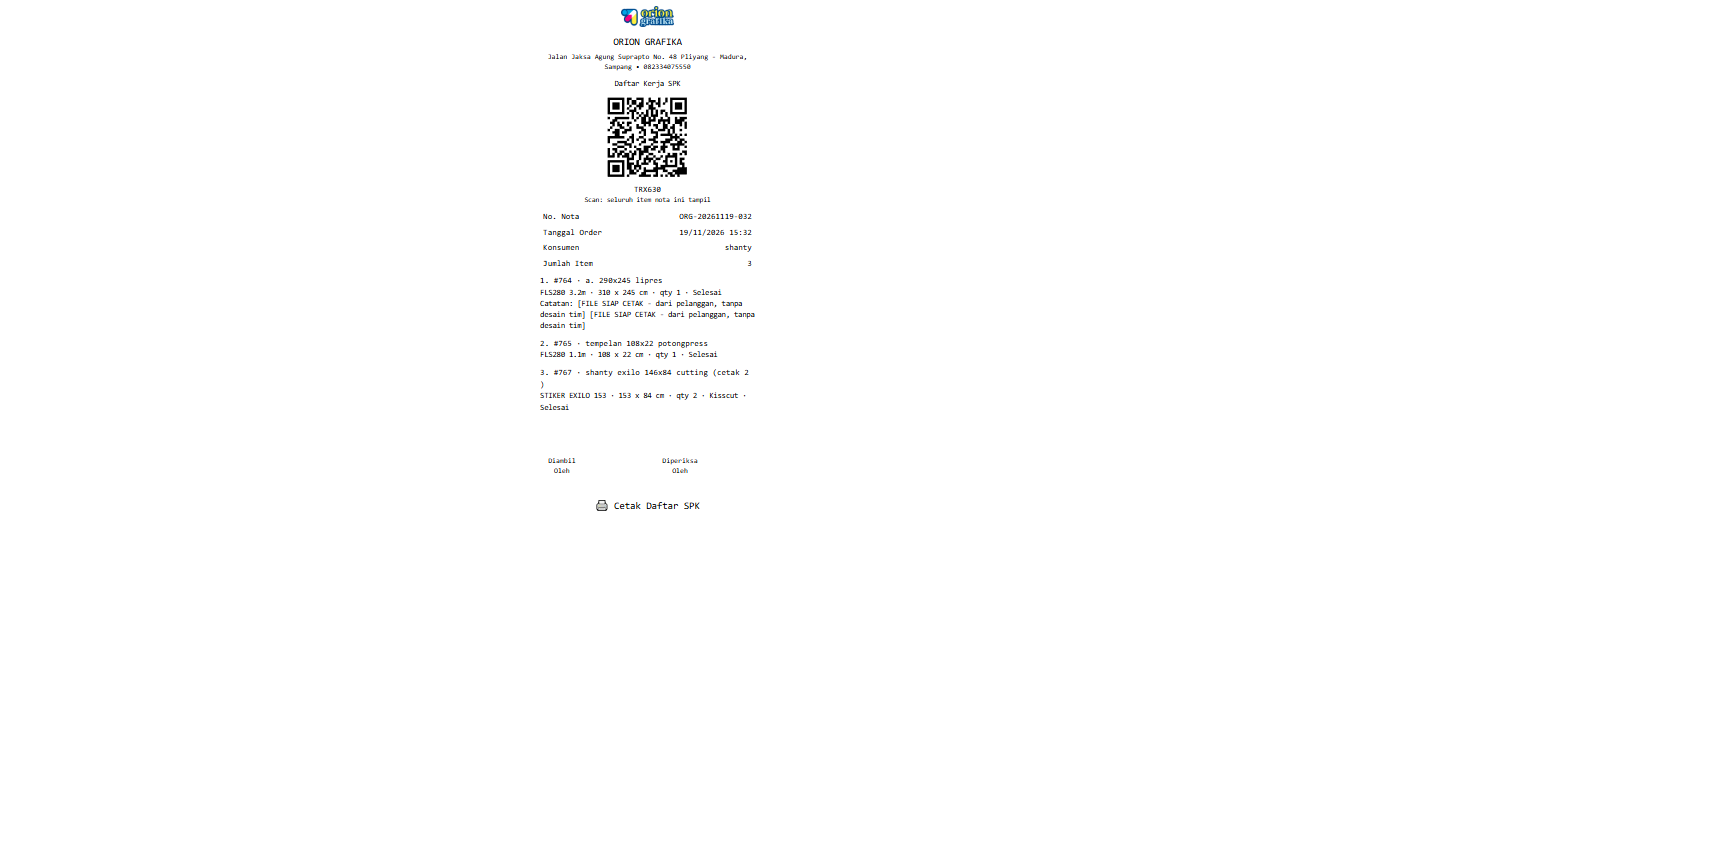
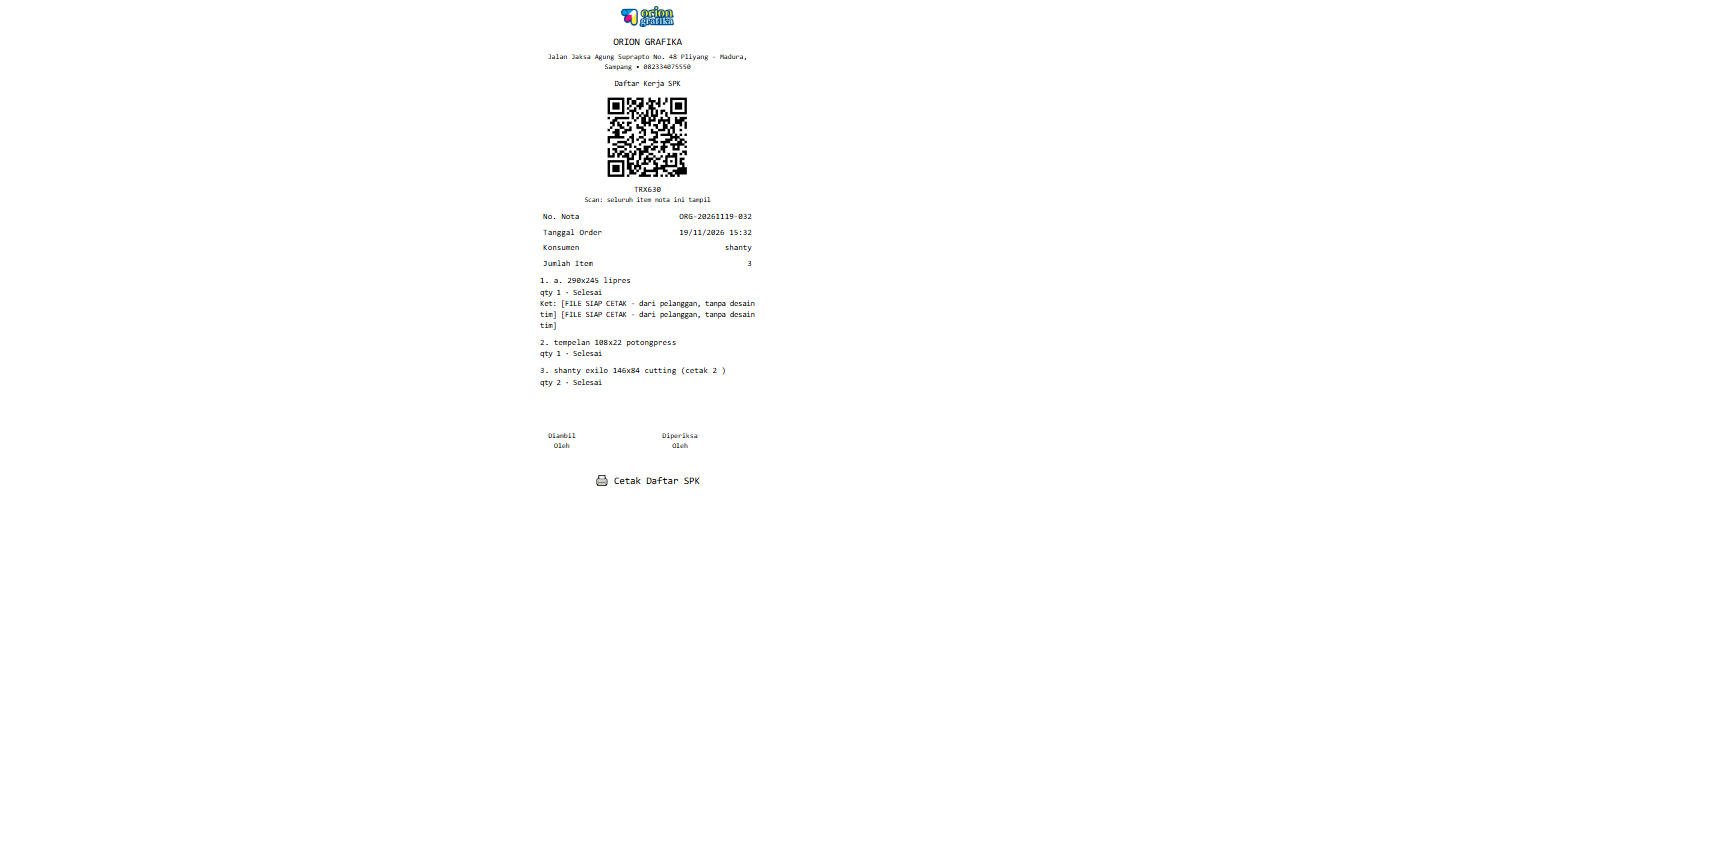
fix(spk): daftar kerja hanya memuat nama file/deskripsi, qty, status, dan keterangan desain (file siap cetak) - produk/ukuran/finishing tidak dicetak

diff --git a/resources/views/spk/print-semua.blade.php b/resources/views/spk/print-semua.blade.php
@@ -6,12 +6,9 @@
     @include('partials.print-style')
     @if($format !== 'thermal')
     <style>
-        /* Daftar kerja A4 harus memakai lebar kertas penuh - style nota
-           membatasi .sheet ke 480px (pas untuk struk), terlalu sempit
-           untuk tabel banyak kolom. */
+        /* Daftar kerja A4 memakai lebar kertas penuh - style nota
+           membatasi .sheet ke 480px (pas untuk struk). */
         .sheet { max-width: 100%; }
-        /* Blok identitas nota tidak perlu melebar sepanjang kertas -
-           nilai yang rata kanan jadi jauh dari labelnya. */
         table.info-nota { max-width: 380px; margin: 0 auto; }
     </style>
     @endif
@@ -19,26 +16,6 @@
 <body>
     @php
         $nota = $details->first();
-        // Data baris disiapkan sekali supaya cabang thermal (daftar linear,
-        // 80mm) dan cabang A4 (tabel) membaca isi yang sama persis.
-        $barisItem = $details->values()->map(function ($detail, $i) use ($finishingItems) {
-            $fin = $finishingItems[$detail->id_detail] ?? collect();
-            // Hanya NAMA finishing - status/catatan finishing milik tim
-            // finishing dan membuat baris melebar tanpa guna.
-            $finText = $fin->pluck('nama_finishing')->implode(', ');
-            if ($finText === '' && ($detail->nama_finishing ?? null)) {
-                $finText = $detail->nama_finishing;
-            }
-            $ukuran = ($detail->metode_hitung ?? null) === 'ukuran'
-                ? angka($detail->p_ukuran, 2) . ' x ' . angka($detail->l_ukuran, 2)
-                : '-';
-            return [
-                'detail' => $detail,
-                'no' => $i + 1,
-                'fin' => $finText,
-                'ukuran' => $ukuran,
-            ];
-        });
     @endphp
     <div class="sheet">
         @include('partials.print-header', ['docTitle' => 'Daftar Kerja SPK'])
@@ -62,26 +39,19 @@
 
         <div class="divider"></div>
 
+        {{-- Isi daftar sengaja hanya: nama file/deskripsi, qty, status, dan
+             keterangan desain (mis. "FILE SIAP CETAK - dari pelanggan").
+             Produk, ukuran, dan finishing bisa dilihat setelah barcode
+             discan/dibuka, jadi tidak dicetak di kertas. --}}
         @if($format === 'thermal')
-            {{-- THERMAL 80mm: daftar linear, bukan tabel banyak kolom.
-                 Empat kolom pada kertas 80mm memaksa "Catatan" jadi kolom
-                 satu kata per baris sehingga daftar lebih panjang daripada
-                 struk per item - justru menghemat kertasnya hilang. --}}
-            @foreach($barisItem as $b)
-            @php $detail = $b['detail']; @endphp
-            <div style="margin-bottom: 7px;">
-                <div style="font-weight:500;">
-                    {{ $b['no'] }}. #{{ $detail->id_detail }} &middot; {{ $detail->nama_file }}
-                    @if($detail->status_urgent)<span style="color:var(--color-amber-700);"> (URGENT)</span>@endif
-                </div>
+            @foreach($details->values() as $i => $detail)
+            <div style="margin-bottom: 6px;">
+                <div>{{ $i + 1 }}. {{ $detail->nama_file }}</div>
                 <div style="font-size:10px; color:var(--ink-600);">
-                    {{ $detail->nama_produk }}@if(($detail->metode_hitung ?? null) === 'ukuran') &middot; {{ $b['ukuran'] }} cm @endif
-                    &middot; qty {{ angka($detail->qty, 4) }}
-                    @if($b['fin'] !== '') &middot; {{ $b['fin'] }} @endif
-                    &middot; {{ $detail->status_spk }}
+                    qty {{ angka($detail->qty, 4) }} &middot; {{ $detail->status_spk }}@if($detail->status_urgent) (URGENT)@endif
                 </div>
                 @if($detail->catatan_produksi)
-                <div style="font-size:10px; color:var(--ink-600);">Catatan: {{ $detail->catatan_produksi }}</div>
+                <div style="font-size:10px; color:var(--ink-600);">Ket: {{ $detail->catatan_produksi }}</div>
                 @endif
             </div>
             @endforeach
@@ -90,32 +60,20 @@
                 <thead>
                     <tr>
                         <th style="width:26px;">No</th>
-                        <th style="width:56px;">No. SPK</th>
-                        <th style="width:24%;">Nama File / Item</th>
-                        <th style="width:13%;">Produk</th>
-                        <th style="width:78px;">Ukuran</th>
-                        <th class="right" style="width:34px;">Qty</th>
-                        <th style="width:13%;">Finishing</th>
-                        <th style="width:24%;">Catatan</th>
-                        <th style="width:58px;">Status</th>
+                        <th>Nama File / Deskripsi</th>
+                        <th class="right" style="width:44px;">Qty</th>
+                        <th style="width:90px;">Status</th>
+                        <th>Keterangan Desain</th>
                     </tr>
                 </thead>
                 <tbody>
-                    @foreach($barisItem as $b)
-                    @php $detail = $b['detail']; @endphp
+                    @foreach($details->values() as $i => $detail)
                     <tr>
-                        <td>{{ $b['no'] }}</td>
-                        <td>#{{ $detail->id_detail }}</td>
-                        <td>
-                            {{ $detail->nama_file }}
-                            @if($detail->status_urgent)<span style="color:var(--color-amber-700);font-weight:500;"> (URGENT)</span>@endif
-                        </td>
-                        <td>{{ $detail->nama_produk }}</td>
-                        <td>{{ $b['ukuran'] }}</td>
+                        <td>{{ $i + 1 }}</td>
+                        <td>{{ $detail->nama_file }}</td>
                         <td class="right">{{ angka($detail->qty, 4) }}</td>
-                        <td>{{ $b['fin'] !== '' ? $b['fin'] : '-' }}</td>
+                        <td>{{ $detail->status_spk }}@if($detail->status_urgent) (URGENT)@endif</td>
                         <td>{{ $detail->catatan_produksi ?: '-' }}</td>
-                        <td>{{ $detail->status_spk }}</td>
                     </tr>
                     @endforeach
                 </tbody>

diff --git a/docs/reviews/SPK_GABUNGAN_SEMUA_ITEM.md b/docs/reviews/SPK_GABUNGAN_SEMUA_ITEM.md
@@ -16,10 +16,14 @@ Tombol/tautan **Daftar SPK (n)** membuka **satu lembar daftar kerja**:
 
 - 1 barcode nota (sekali scan → semua item nota tampil)
 - identitas nota/order (nomor, tanggal, konsumen, jumlah item)
-- tabel semua item: No. SPK, nama file/barang, produk, ukuran, qty,
-  finishing, catatan, status
+- tabel semua item: **nama file/deskripsi, qty, status**, dan **keterangan
+  desain** (mis. "FILE SIAP CETAK - dari pelanggan, tanpa desain tim")
 - daftar nama & nomor punggung (khusus Jersey) tetap dicetak di bawahnya
   karena informasi itu tidak terbaca dengan scan
+
+Produk, ukuran, dan finishing sengaja tidak dicetak — semuanya muncul
+setelah barcode discan, sehingga kertas hanya memuat yang dibutuhkan untuk
+pembagian kerja.
 
 SPK per item **tidak diubah**: tombol `SPK` di tiap kartu barang / baris
 antrean tetap mencetak halaman lengkap (gambar desain, estimasi bahan) bila
@@ -52,8 +56,9 @@ thermal** dari kedua titik masuk:
 - format A4 tetap tersedia bila dipanggil manual dengan `format=normal`
 
 Di kertas 80mm, tabel banyak kolom tidak dipakai: `format=thermal` merender
-**daftar linear** (1 item = 2–3 baris: nomor + nama file, lalu produk/ukuran/qty/
-finishing/status, lalu catatan). Tabel berkolom hanya untuk A4.
+**daftar linear** (1 item = 2–3 baris: nomor + nama file, lalu qty/status,
+lalu keterangan desain). Tabel berkolom (nama file, qty, status, keterangan
+desain) hanya untuk A4.
 
 ## Bukti visual (browser nyata, dev lokal)
 
